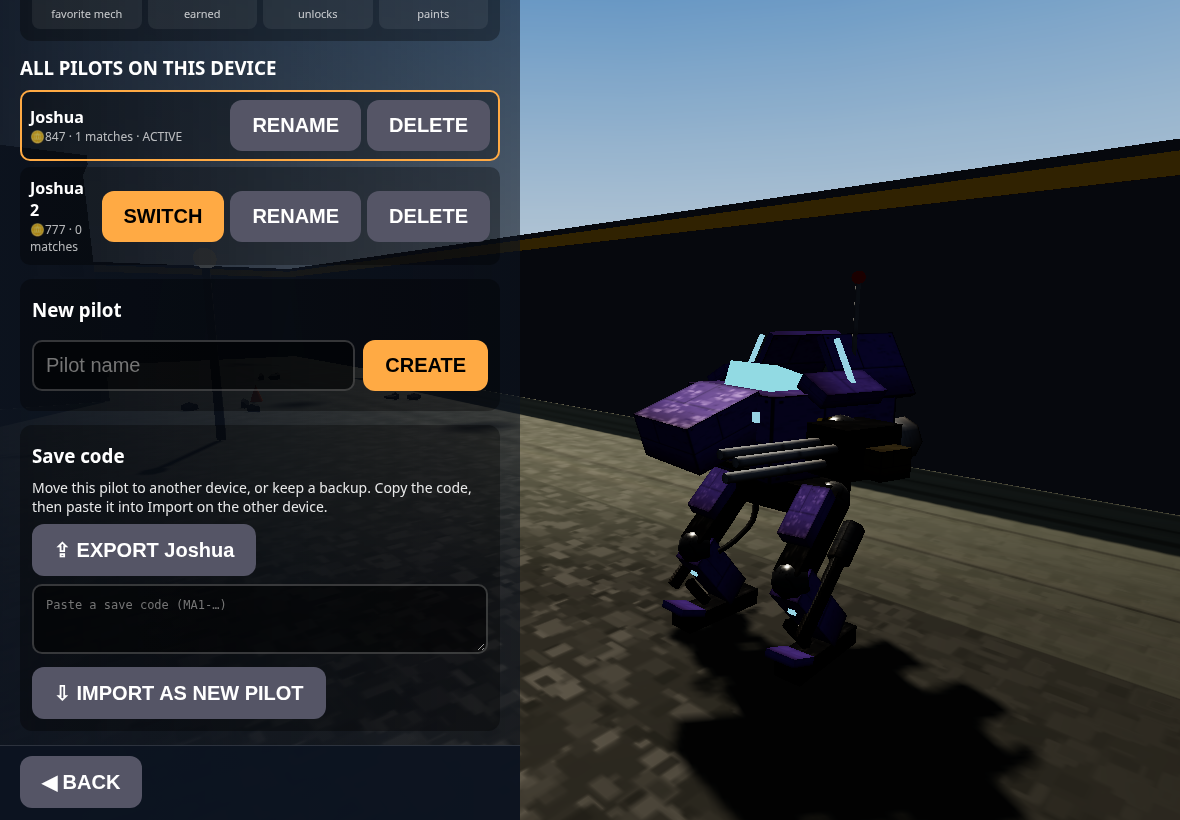
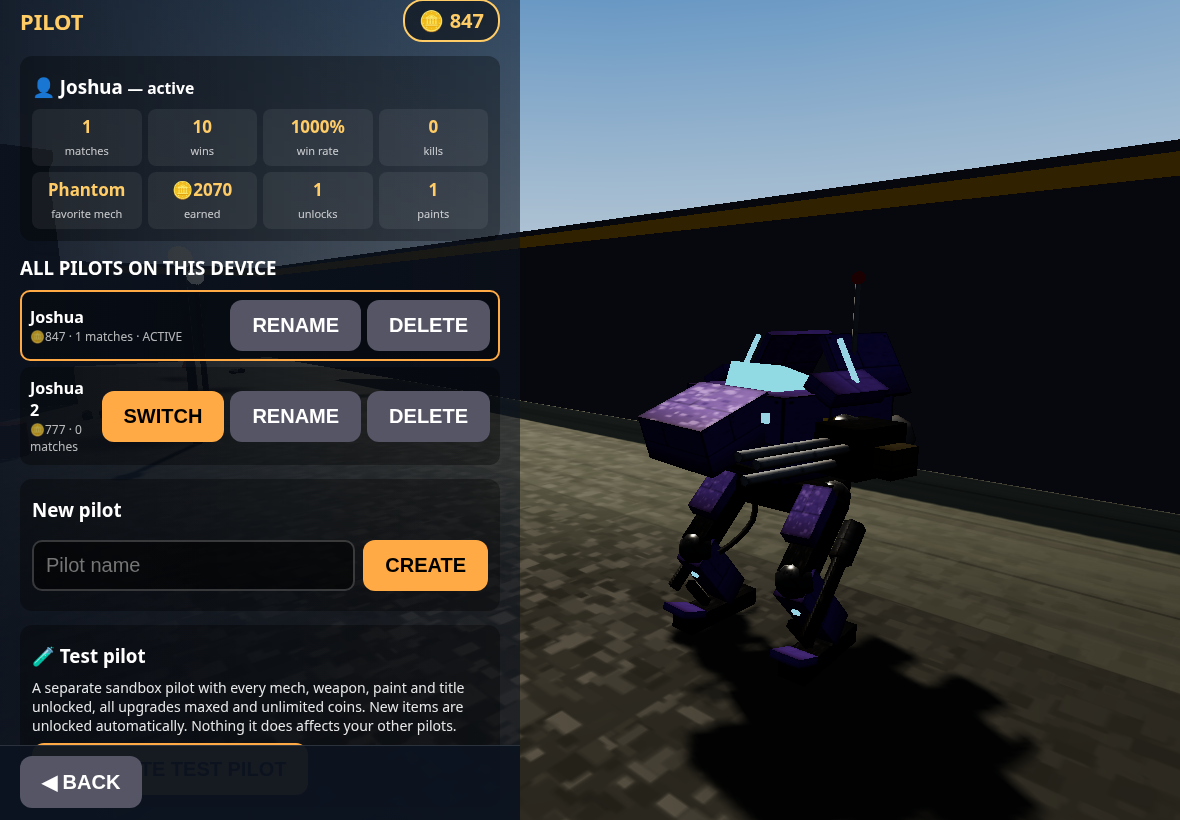
v18: test pilot sandbox

diff --git a/game.js b/game.js
@@ -1,4 +1,4 @@
-/*v17 challenges*/
+/*v18 test pilot*/
 import * as THREE from './three.module.js';
 /*v14 lasers+shield toggle*/ // ======================= CONFIG (tune here) =======================
 const CFG={
@@ -120,7 +120,7 @@ const SAVE_KEY='mechArena.save.v2',SAVE_KEY1='mechArena.save.v1';
 function freshSave(){return {v:2,coins:0,earned:0,wins:0,lv:{},unlocked:[],paints:['default'],paint:{},life:null,ch:null,titles:[],title:''};}
 let SAVE=freshSave();try{let s=JSON.parse(localStorage.getItem(SAVE_KEY));if(!s){const o=JSON.parse(localStorage.getItem(SAVE_KEY1));if(o&&o.v===1){s=Object.assign(o,{v:2,migrated:1});localStorage.setItem(SAVE_KEY,JSON.stringify(s));}}
  if(s&&s.v===2)SAVE=Object.assign(freshSave(),s);}catch(e){}
-function persist(){if(PROFS&&PROFS.list[PROFS.cur]){PROFS.list[PROFS.cur].save=SAVE;writeProfs();return;}try{localStorage.setItem(SAVE_KEY,JSON.stringify(SAVE));}catch(e){}}
+function persist(){if(PROFS&&PROFS.list[PROFS.cur]){if(PROFS.list[PROFS.cur].test)testFill();PROFS.list[PROFS.cur].save=SAVE;writeProfs();return;}try{localStorage.setItem(SAVE_KEY,JSON.stringify(SAVE));}catch(e){}}
 const lvl=(k,s)=>(SAVE.lv[k]&&SAVE.lv[k][s])||1;
 const isLocked=k=>k in CFG.econ.locked&&!SAVE.unlocked.includes(k);
 const upCost=(k,s)=>{const l=lvl(k,s);return l>=5?0:CFG.econ.upCost[l];};
@@ -549,7 +549,7 @@ function profInit(){try{PROFS=JSON.parse(localStorage.getItem(PROF_KEY));}catch(
   PROFS={v:1,cur:id,list:{[id]:{name:'',save:SAVE,loadout,stats:Object.assign(freshStats(),{wins:SAVE.wins||0}),created:Date.now(),migrated:had}}};writeProfs();}
  useProf(PROFS.list[PROFS.cur]?PROFS.cur:Object.keys(PROFS.list)[0]);}
 function newId(){return 'p'+Date.now().toString(36)+Math.floor(Math.random()*1e4).toString(36);}
-function useProf(id){PROFS.cur=id;const p=PROFS.list[id];SAVE=Object.assign(freshSave(),p.save||{});p.save=SAVE;
+function useProf(id){PROFS.cur=id;const p=PROFS.list[id];SAVE=Object.assign(freshSave(),p.save||{});p.save=SAVE;if(p.test)try{testFill();}catch(e){}
  loadout=Object.assign(freshLoadout(),p.loadout||{});loadout.slots=Object.assign(freshLoadout().slots,loadout.slots||{});p.loadout=loadout;p.stats=Object.assign(freshStats(),p.stats||{});writeProfs();}
 const curProf=()=>PROFS.list[PROFS.cur];
 function cleanName(n){return String(n||'').replace(/[<>&"']/g,'').trim().slice(0,16);}
@@ -961,7 +961,7 @@ function chStart(){chEnsure();chDaily();chSnap=JSON.parse(JSON.stringify(SAVE.li
 const pbar=(f)=>`<div class="cbar"><i style="width:${Math.round(Math.max(0,Math.min(1,f))*100)}%"></i></div>`;
 function fmtLeft(ms){const h=Math.floor(ms/36e5),m=Math.floor(ms%36e5/6e4);return `${h}h ${m}m`;}
 let chTab='daily';
-function chalScreen(){const C=chDaily();let h=`<div class="gh"><h2>🏅 CHALLENGES</h2>${coinTag()}</div><div class="tabs"><button data-chtab="daily" class="${chTab==='daily'?'on':''}">DAILY</button><button data-chtab="career" class="${chTab==='career'?'on':''}">CAREER</button></div>`;
+function chalScreen(){const C=chDaily();let h=`<div class="gh"><h2>🏅 CHALLENGES${testTag(curProf())}</h2>${coinTag()}</div>${isTest()?'<p class="ab">🧪 Test pilot — challenges run here for testing only; nothing carries over to your real pilots.</p>':''}<div class="tabs"><button data-chtab="daily" class="${chTab==='daily'?'on':''}">DAILY</button><button data-chtab="career" class="${chTab==='career'?'on':''}">CAREER</button></div>`;
  if(chTab==='daily'){h+=`<p class="ab">New challenges every day at midnight · resets in <b id="chcd">${fmtLeft(msToMidnight())}</b></p>`;
   C.list.forEach((e,i)=>{const q=dProg(e),done=q.cur>=q.n;h+=`<div class="det chi"><div class="chh"><b>${q.p[2]}</b><span>🪙${q.p[3]}</span></div>${pbar(q.cur/q.n)}<div class="chh"><small>${Math.floor(q.cur).toLocaleString()} / ${q.n.toLocaleString()}</small>${e.cl?'<small class="ok">✔ CLAIMED</small>':done?`<button class="go" data-chc="d:${i}">CLAIM</button>`:''}</div></div>`;});
   const all=C.list.every(e=>e.cl);h+=`<div class="det chi"><div class="chh"><b>Daily bonus — claim all 3</b><span>🪙${DBONUS}</span></div><div class="chh"><small>${C.list.filter(e=>e.cl).length} / 3 claimed</small>${C.bonus?'<small class="ok">✔ CLAIMED</small>':all?'<button class="go" data-chc="bonus">CLAIM</button>':''}</div></div>`;}
@@ -975,6 +975,17 @@ function chResults(){if(!SAVE.ch)return '';const C=SAVE.ch;let h='<div class="ch
  for(const e of C.list){const q=dProg(e),d=Math.max(0,Math.min(q.n,L_(e.k)-e.base)-Math.min(q.n,(chSnap?chSnap[e.k]||0:L_(e.k))-e.base));h+=`<div class="chrr"><span>${q.cur>=q.n?'✅':'▫'} ${q.p[2]}</span>${pbar(q.cur/q.n)}<small>${Math.floor(q.cur)}/${q.n}${d>0?` <i>+${Math.floor(d)}</i>`:''}</small></div>`;}
  const n=chClaimable();return h+(n?`<div class="chrn">🏅 ${n} reward${n>1?'s':''} ready to claim in Challenges</div>`:'')+'</div>';}
 setInterval(()=>{const e=document.getElementById('chcd');if(e)e.textContent=fmtLeft(msToMidnight());if(mode==='menu'&&SAVE.ch&&SAVE.ch.day&&SAVE.ch.day!==dayKey()&&menuStep==='chal')renderMenu();},20000);
+// ---------- v18: test pilot (everything unlocked, computed from item tables) ----------
+const TEST_COINS=999999;const isTest=()=>!!(PROFS&&curProf()&&curProf().test);
+function testFill(){const S=SAVE;S.unlocked=[...new Set([...(S.unlocked||[]),...Object.keys(CFG.econ.locked)])];
+ S.paints=[...new Set([...(S.paints||[]),...Object.keys(CFG.paints)])];
+ for(const [tab,kind] of [[CFG.mechs,'mech'],[CFG.weapons,'wpn']])for(const k of Object.keys(tab)){S.lv[k]=S.lv[k]||{};for(const s of Object.keys(UPS[kind]))S.lv[k][s]=5;}
+ if(S.coins<TEST_COINS)S.coins=TEST_COINS;chEnsure();for(const c of CAREER)for(const t of Object.values(c.uniq))if(t.title&&!S.titles.includes(t.title))S.titles.push(t.title);}
+function createTest(){const ex=Object.keys(PROFS.list).find(k=>PROFS.list[k].test);if(ex){useProf(ex);return ex;}
+ const id=newId();PROFS.list[id]={name:'TEST PILOT',test:1,save:freshSave(),loadout:freshLoadout(),stats:freshStats(),created:Date.now()};useProf(id);return id;}
+function resetTest(){const k=Object.keys(PROFS.list).find(k=>PROFS.list[k].test);if(!k)return null;const p=PROFS.list[k];p.save=freshSave();p.loadout=freshLoadout();p.stats=freshStats();useProf(k);return k;}
+const testTag=q=>q&&q.test?' <span class="ttag">🧪 TEST</span>':'';
+if(isTest()){testFill();persist();}
 // ---------- loop ----------
 const fwd=new THREE.Vector3(),rt=new THREE.Vector3();
 function outcome(){const md=settings.mode,b=mates('b').length,r=mates('r').length;
@@ -1121,14 +1132,15 @@ function nameScreen(){const p=curProf(),mig=p.migrated&&(SAVE.coins||SAVE.unlock
  <input id="pnm" class="pin" maxlength="16" placeholder="Pilot name" autocomplete="off" autocapitalize="words">${mig?`<p class="ab">Your existing progress (🪙${SAVE.coins}, ${SAVE.unlocked.length} unlocks) will be kept on this pilot.</p>`:''}
  <button class="big" data-pnew="1">START ▶</button>${Object.values(PROFS.list).some(q=>q.name)?'<div class="row"><button data-go="pilot">Choose existing pilot</button></div>':''}`;}
 function pilotScreen(){const id=PROFS.cur,p=curProf(),st=p.stats,wr=st.matches?Math.round(st.wins/st.matches*100):0;
- let h=`<div class="gh"><h2>PILOT</h2>${coinTag()}</div><div class="det pc"><h3>👤 ${p.name||'(unnamed)'} ${SAVE.title?`<span class="ttl">🎖 ${SAVE.title}</span>`:''}<small>— active</small></h3><div class="pst">
+ let h=`<div class="gh"><h2>PILOT</h2>${coinTag()}</div><div class="det pc"><h3>👤 ${p.name||'(unnamed)'}${testTag(p)} ${SAVE.title?`<span class="ttl">🎖 ${SAVE.title}</span>`:''}<small>— active</small></h3><div class="pst">
  <div><b>${st.matches}</b><small>matches</small></div><div><b>${st.wins}</b><small>wins</small></div><div><b>${wr}%</b><small>win rate</small></div><div><b>${st.kills}</b><small>kills</small></div>
  <div><b>${favMech(st)}</b><small>favorite mech</small></div><div><b>🪙${SAVE.earned}</b><small>earned</small></div><div><b>${SAVE.unlocked.length}</b><small>unlocks</small></div><div><b>${SAVE.paints.length-1}</b><small>paints</small></div></div></div>
  <h3>ALL PILOTS ON THIS DEVICE</h3><div class="plist">`;
- for(const [k,q] of Object.entries(PROFS.list)){h+=`<div class="pl ${k===id?'sel':''}"><div><b>${q.name||'(unnamed)'}</b><small>🪙${(q.save||{}).coins||0} · ${(q.stats||{}).matches||0} matches${k===id?' · ACTIVE':''}</small></div>`+
+ for(const [k,q] of Object.entries(PROFS.list)){h+=`<div class="pl ${k===id?'sel':''}"><div><b>${q.name||'(unnamed)'}${testTag(q)}</b><small>🪙${(q.save||{}).coins||0} · ${(q.stats||{}).matches||0} matches${k===id?' · ACTIVE':''}</small></div>`+
   (pren===k?`<input id="pren" class="pin" maxlength="16" value="${q.name||''}"><button class="go" data-prsave="${k}">SAVE</button>`:
   `${k===id?'':`<button class="go" data-psw="${k}">SWITCH</button>`}<button data-pren="${k}">RENAME</button><button class="${pdelArm===k?'danger':''}" data-pdel="${k}">${pdelArm===k?'CONFIRM DELETE':'DELETE'}</button>`)+`</div>`;}
  h+=`</div><div class="det"><h3>New pilot</h3><div class="prow"><input id="pnm" class="pin" maxlength="16" placeholder="Pilot name" autocomplete="off"><button class="go" data-pnew="1">CREATE</button></div></div>
+ <div class="det"><h3>🧪 Test pilot</h3><p>A separate sandbox pilot with every mech, weapon, paint and title unlocked, all upgrades maxed and unlimited coins. New items are unlocked automatically. Nothing it does affects your other pilots.</p><div class="row"><button class="go" data-ptest="1">${Object.values(PROFS.list).some(q=>q.test)?'🧪 SWITCH TO TEST PILOT':'🧪 CREATE TEST PILOT'}</button>${Object.values(PROFS.list).some(q=>q.test)?`<button class="${pdelArm==='__rt'?'danger':''}" data-ptreset="1">${pdelArm==='__rt'?'CONFIRM RESET':'RESET TEST PILOT'}</button>`:''}</div></div>
  <div class="det"><h3>Save code</h3><p>Move this pilot to another device, or keep a backup. Copy the code, then paste it into Import on the other device.</p>
  ${pexp?`<textarea id="pcode" class="pin pcode" readonly>${exportCode()}</textarea><button class="go" data-pcopy="1">📋 COPY CODE</button>`:`<button data-pexp="1">⇪ EXPORT ${p.name||'pilot'}</button>`}
  <textarea id="pimp" class="pin pcode" placeholder="Paste a save code (MA1-…)"></textarea><button data-pimp="1">⇩ IMPORT AS NEW PILOT</button></div>
@@ -1146,7 +1158,7 @@ function renderMenu(){const Ms=CFG.mechs,Ws=CFG.weapons,Md=CFG.modes;let h='';co
  const gq=`<div class="gq">Graphics: <button data-gfx="high" class="${settings.gfx==='high'?'on':''}">HIGH</button><button data-gfx="low" class="${settings.gfx==='low'?'on':''}">LOW</button></div>`;
  if(menuStep==='title'&&!curProf().name)menuStep='name';
  if(menuStep==='name')h=nameScreen();else if(menuStep==='pilot')h=pilotScreen();else if(menuStep==='chal')h=chalScreen();
- else if(menuStep==='title'){h=`<h1>MECH ARENA</h1><div class="wb">Welcome back, <b>${curProf().name}</b>${SAVE.title?` <span class="ttl">🎖 ${SAVE.title}</span>`:''} <button data-go="pilot" class="sw2">👤 PILOT · SWITCH</button></div>${coinTag()}<p class="sub">Win matches to earn coins. Upgrade and unlock gear in the Garage.</p>
+ else if(menuStep==='title'){h=`<h1>MECH ARENA</h1><div class="wb">Welcome back, <b>${curProf().name}</b>${testTag(curProf())}${SAVE.title?` <span class="ttl">🎖 ${SAVE.title}</span>`:''} <button data-go="pilot" class="sw2">👤 PILOT · SWITCH</button></div>${coinTag()}<p class="sub">Win matches to earn coins. Upgrade and unlock gear in the Garage.</p>
   <button class="big" data-go="mode">PLAY</button><button class="big alt" data-go="deploy">QUICK DEPLOY<br><small>${md.name}${settings.mode==='duel'?' ('+CFG.diff[settings.diff].name+')':''} · ${settings.map==='random'?'Random map':MAPS[settings.map].name} · ${Ms[loadout.mech].name} · ${slotsOf(loadout.mech).map(k=>Ws[k].name).join(' + ')}</small></button>
   <div class="trow"><button class="big gar" data-go="garage">🔧 GARAGE</button><button class="big gar chb" data-go="chal">🏅 CHALLENGES${chClaimable()?`<i class="badge">${chClaimable()}</i>`:''}</button></div>${gq}`;}
  else if(menuStep==='garage')h=garage();
@@ -1168,9 +1180,11 @@ function goMenu(){clearWorld();if(mapKey!=='arena')loadMap('arena',7);showBases(
 function showUI(){menu.style.display=mode==='menu'?'flex':'none';$('hud').style.display=mode==='play'?'block':'none';$('msg').style.display=mode==='over'?'flex':'none';
  const t=TOUCH&&mode==='play'?'':'none';for(const id of['joy','bMG','bAB','bRL','bFL','bFR'])$(id).style.display=t;$('hint').style.display=TOUCH||mode!=='play'?'none':'';
  if(mode==='play'){bAB.textContent=P.T.ability;bAB.classList.toggle('passive',!!P.T.regen);}}
-function menuClick(e){const el=e.target.closest('[data-chc],[data-chtab],[data-ttl],[data-pnew],[data-psw],[data-pren],[data-prsave],[data-pdel],[data-pexp],[data-pcopy],[data-pimp],[data-go],[data-mech],[data-wpn],[data-mode],[data-diff],[data-gfx],[data-gtab],[data-gsel],[data-up],[data-buy],[data-paint],[data-reset],[data-map],[data-slot],[data-pick]');if(!el||el.disabled)return;const d=el.dataset;
- if(!d.reset)resetArm=false;if(!d.pdel)pdelArm=null;if(d.go)pren=null,pexp=false;
+function menuClick(e){const el=e.target.closest('[data-ptest],[data-ptreset],[data-chc],[data-chtab],[data-ttl],[data-pnew],[data-psw],[data-pren],[data-prsave],[data-pdel],[data-pexp],[data-pcopy],[data-pimp],[data-go],[data-mech],[data-wpn],[data-mode],[data-diff],[data-gfx],[data-gtab],[data-gsel],[data-up],[data-buy],[data-paint],[data-reset],[data-map],[data-slot],[data-pick]');if(!el||el.disabled)return;const d=el.dataset;
+ if(!d.reset)resetArm=false;if(!d.pdel&&!d.ptreset)pdelArm=null;if(d.go)pren=null,pexp=false;
  if(d.chc){chClaim(d.chc);renderMenu();return;}if(d.chtab){chTab=d.chtab;renderMenu();mc.scrollTop=0;return;}if(d.ttl){SAVE.title=d.ttl==='-'?'':d.ttl;persist();renderMenu();return;}
+ if(d.ptest){createTest();toast('🧪 Test pilot active — everything unlocked');gsel=null;slotSel=0;pickSel=null;preview();renderMenu();return;}
+ if(d.ptreset){if(pdelArm==='__rt'){resetTest();pdelArm=null;toast('🧪 Test pilot reset');gsel=null;slotSel=0;pickSel=null;preview();}else pdelArm='__rt';renderMenu();return;}
  if(d.pnew||d.psw||d.pren||d.prsave||d.pdel||d.pexp||d.pcopy||d.pimp){pilotClick(d);renderMenu();return;}
  if(d.mech){loadout.mech=d.mech;slotSel=0;pickSel=null;saveLoadout();preview();}
  if(d.slot){slotSel=+d.slot;pickSel=null;}
@@ -1192,7 +1206,7 @@ loadMap('arena',7);setGfx(settings.gfx);goMenu();requestAnimationFrame(loop);
 window.__game={THREE_V:THREE.Vector3,hurt,STATS,C,cam,obst,obstMeshes,BASES,CFG,get U(){return U},get E(){return foes('b')},get P(){return P},get B(){return B},get mode(){return mode},get fps(){return fps},get SPEC(){return SPEC},get settings(){return settings},
  ability:()=>ability(P),abilityU:u=>ability(u),blocked:(x,z,r,y)=>blocked(x,z,r,y),groundAt:(x,z,y)=>groundAt(x,z,y),get A(){return A},newGame,goMenu,setGfx,get loadout(){return loadout},setLoadout:(m,w)=>{loadout.mech=m;loadout.slots[m]=CFG.slots[m].map(sl=>adapt(w,sl,false));},setSlots:(m,a)=>{loadout.mech=m;loadout.slots[m]=a.slice();},slotsOf:t=>slotsOf(t),SIZES,menu:st=>{menuStep=st;renderMenu();},slot:i=>{slotSel=i;pickSel=null;renderMenu();},
  startMatch:(md,df,mp)=>{settings.mode=md;if(df)settings.diff=df;if(mp)settings.map=mp;newGame();},MAPS,get mapKey(){return mapKey},loadMap,setBaseProg:(t,v)=>{BASES[t].prog=v;},
- killTeam:t=>{for(const u of U)if(u.team===t&&u.alive)hurt(u,1e6,null,null);},killUnit:u=>hurt(u,1e6,null,null),get SAVE(){return SAVE},get PROFS(){return PROFS},chClaim,chDaily,chClaimable,CAREER,DPOOL,chEv,dayKey,cTier,get menuStep(){return menuStep},speedOf:u=>speedOf(u),createProf,renameProf,deleteProf,useProf,exportCode,importCode,buyUp,buyUnlock,buyPaint,resetProgress,upMech,upWpn,get reward(){return LAST_REWARD},lineup:(w)=>{if(P){S.remove(P.g);P=null;}if(LINEUP)LINEUP.forEach(u=>S.remove(u.g));LINEUP=['guardian','strider','mender','phantom'].map((k,i)=>{const u=makeUnit('b',k,w||CFG.defSlots[k],null);u.g.position.set(-10.5+i*7,0,48);u.tYaw=u.legYaw=u.yaw=Math.PI*0.82;initFeet(u);animMech(u,.016);return u;});},renderMenu,go:s=>{menuStep=s;renderMenu();}};
+ killTeam:t=>{for(const u of U)if(u.team===t&&u.alive)hurt(u,1e6,null,null);},killUnit:u=>hurt(u,1e6,null,null),get SAVE(){return SAVE},get PROFS(){return PROFS},createTest,resetTest,testFill,isTest,chClaim,chDaily,chClaimable,CAREER,DPOOL,chEv,dayKey,cTier,get menuStep(){return menuStep},speedOf:u=>speedOf(u),createProf,renameProf,deleteProf,useProf,exportCode,importCode,buyUp,buyUnlock,buyPaint,resetProgress,upMech,upWpn,get reward(){return LAST_REWARD},lineup:(w)=>{if(P){S.remove(P.g);P=null;}if(LINEUP)LINEUP.forEach(u=>S.remove(u.g));LINEUP=['guardian','strider','mender','phantom'].map((k,i)=>{const u=makeUnit('b',k,w||CFG.defSlots[k],null);u.g.position.set(-10.5+i*7,0,48);u.tYaw=u.legYaw=u.yaw=Math.PI*0.82;initFeet(u);animMech(u,.016);return u;});},renderMenu,go:s=>{menuStep=s;renderMenu();}};
 // barrel convergence: rotate each gun pivot so its +Z points at the aim point
 const _l=new THREE.Vector3();
 function aimGuns(u,pt,dt){const K=CFG.cam;u.top.updateMatrixWorld(true);for(const g of u.guns){g.rotation.order='YXZ';

diff --git a/index.html b/index.html
@@ -99,7 +99,7 @@ b.zS,b.zM,b.zL{padding:0 3px;border-radius:3px}
 .cbar{height:10px;background:#0006;border-radius:6px;overflow:hidden;margin:6px 0}.cbar i{display:block;height:100%;background:linear-gradient(90deg,#fa4,#fd6)}
 #mc .ok{color:#6f9}#mc .rdy{filter:drop-shadow(0 0 4px #fd6)}#mc .dim{opacity:.3}.ttl{font-size:.7em;color:#fd6;background:#fd62;border-radius:8px;padding:1px 8px;margin-left:6px}
 .chr{width:min(520px,90vw);font-size:14px;margin:8px 0;background:#0007;border-radius:10px;padding:8px 12px}.chr b{font-size:13px;opacity:.8}.chrr{display:grid;grid-template-columns:1fr 110px 70px;gap:8px;align-items:center;font-weight:normal}.chrr small{font-size:13px}.chrr i{color:#6f9;font-style:normal}.chrr .cbar{width:100%;min-width:100px;height:8px}.chrn{color:#fd6;margin-top:4px;font-size:14px}
-</style></head><body>
+.ttag{font-size:.6em;background:#3c6;color:#000;border-radius:8px;padding:1px 7px;margin-left:6px;vertical-align:middle}</style></head><body>
 <div id="hud"><div id="aim"></div><div id="hp"><div id="hpf"></div></div><div id="info"></div>
 <div id="ammo"><div id="gunt">GUN</div><div class="bar"><div id="gunf"></div></div><div id="abt">ABILITY</div><div class="bar"><div id="abf"></div></div></div>
 <div id="teams"></div><canvas id="mini" width="150" height="150"></canvas><div id="mapban"></div><div id="cap"><div id="capOt">YOUR BASE</div><div class="cb"><i id="capO"></i></div><div id="capEt">ENEMY BASE</div><div class="cb"><i id="capE"></i></div></div><div id="spec"></div><div id="toast"></div><div id="xh"></div><div id="rng"></div><div id="lock"></div>
@@ -107,4 +107,4 @@ b.zS,b.zM,b.zL{padding:0 3px;border-radius:3px}
 <div id="hint">WASD move · mouse aim (click to lock) · LMB/F fire · E/Shift/Space/RMB ability · R reload</div>
 <div id="menu"><div id="mc"></div></div>
 <div id="msg"><div id="mt"></div><div id="mm"></div><small id="ml"></small><div id="mk"></div><div id="coins"></div><button class="mb" id="again">PLAY AGAIN</button><button class="mb alt" id="tomenu">MAIN MENU</button></div>
-<script type="module" src="game.js?v=17"></script></body></html>
+<script type="module" src="game.js?v=18"></script></body></html>
